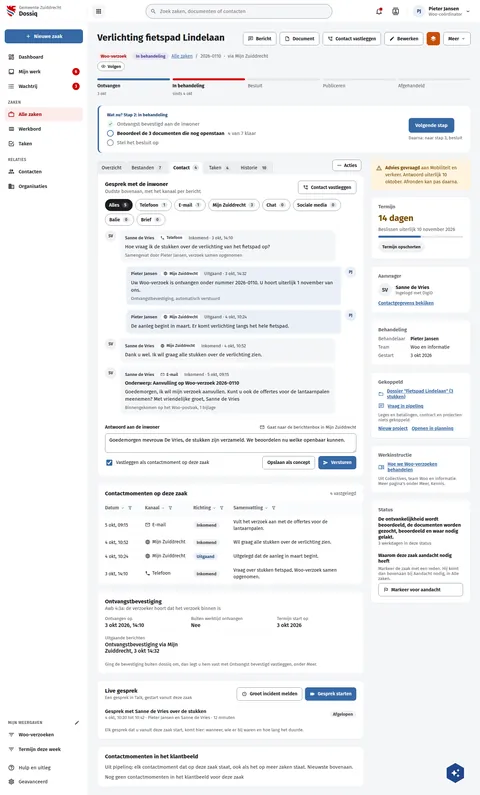
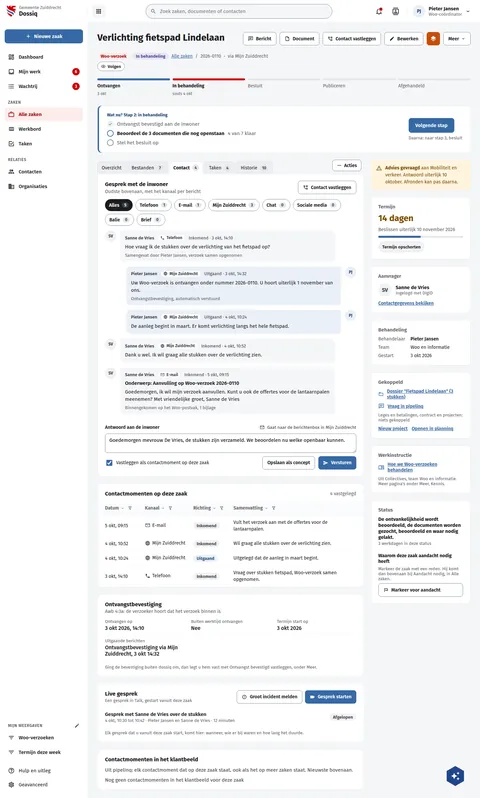
board(dossiq): DqZaakContact draws its contact-moment cells at 11px, as every dossiq table
"Contactmomenten op deze zaak" was the last dossiq table drawn with 10px cell
padding; every other Dq table draws 11, and the app draws 11 (r45: the table
249.2 on the board against 257.2 live, so Ontvangstbevestiging sat 8px lower
than its shift above explained). Board 2385 -> 2393.

Assisted-by: ClaudeCode:claude-opus-5-5

diff --git a/preview/screens/boards/DqZaakContact.html b/preview/screens/boards/DqZaakContact.html
@@ -329,31 +329,31 @@ a{color:var(--sc-primary, #3669a5)}a:hover{color:var(--sc-primary-deep, #234a78)
                   <tbody>
                     
                       <tr style="border-top: 1px solid var(--sc-work-soft, #eef0f3)">
-                        <td style="padding: 10px 22px; white-space: nowrap">5 okt, 09:15</td>
-                        <td style="padding: 10px 12px"><span style="display: inline-flex; align-items: center; gap: 6px; white-space: nowrap"><svg width="16" height="16" viewbox="0 0 24 24" fill="#3d4047" aria-hidden="true" style="fill:var(--sc-work-text, #3d4047)"><path d="M22 6C22 4.9 21.1 4 20 4H4C2.9 4 2 4.9 2 6V18C2 19.1 2.9 20 4 20H20C21.1 20 22 19.1 22 18V6M20 6L12 11L4 6H20M20 18H4V8L12 13L20 8V18Z"></path></svg>E-mail</span></td>
-                        <td style="padding: 10px 12px"><span style="display: inline-block; padding: 3px 10px; border-radius: 12px; font-size: 13px; font-weight: 600; white-space: nowrap; background: var(--sc-work-chip, #f0f1f3); color: var(--sc-work-text, #3d4047)">Inkomend</span></td>
-                        <td style="padding: 10px 22px 10px 12px; line-height: 1.45">Vult het verzoek aan met de offertes voor de lantaarnpalen.</td>
+                        <td style="padding: 11px 22px; white-space: nowrap">5 okt, 09:15</td>
+                        <td style="padding: 11px 12px"><span style="display: inline-flex; align-items: center; gap: 6px; white-space: nowrap"><svg width="16" height="16" viewbox="0 0 24 24" fill="#3d4047" aria-hidden="true" style="fill:var(--sc-work-text, #3d4047)"><path d="M22 6C22 4.9 21.1 4 20 4H4C2.9 4 2 4.9 2 6V18C2 19.1 2.9 20 4 20H20C21.1 20 22 19.1 22 18V6M20 6L12 11L4 6H20M20 18H4V8L12 13L20 8V18Z"></path></svg>E-mail</span></td>
+                        <td style="padding: 11px 12px"><span style="display: inline-block; padding: 3px 10px; border-radius: 12px; font-size: 13px; font-weight: 600; white-space: nowrap; background: var(--sc-work-chip, #f0f1f3); color: var(--sc-work-text, #3d4047)">Inkomend</span></td>
+                        <td style="padding: 11px 22px 11px 12px; line-height: 1.45">Vult het verzoek aan met de offertes voor de lantaarnpalen.</td>
                       </tr>
                     
                       <tr style="border-top: 1px solid var(--sc-work-soft, #eef0f3)">
-                        <td style="padding: 10px 22px; white-space: nowrap">4 okt, 10:52</td>
-                        <td style="padding: 10px 12px"><span style="display: inline-flex; align-items: center; gap: 6px; white-space: nowrap"><svg width="16" height="16" viewbox="0 0 24 24" fill="#3d4047" aria-hidden="true" style="fill:var(--sc-work-text, #3d4047)"><path d="M16.36,14C16.44,13.34 16.5,12.68 16.5,12C16.5,11.32 16.44,10.66 16.36,10H19.74C19.9,10.64 20,11.31 20,12C20,12.69 19.9,13.36 19.74,14M14.59,19.56C15.19,18.45 15.65,17.25 15.97,16H18.92C17.96,17.65 16.43,18.93 14.59,19.56M14.34,14H9.66C9.56,13.34 9.5,12.68 9.5,12C9.5,11.32 9.56,10.65 9.66,10H14.34C14.43,10.65 14.5,11.32 14.5,12C14.5,12.68 14.43,13.34 14.34,14M12,19.96C11.17,18.76 10.5,17.43 10.09,16H13.91C13.5,17.43 12.83,18.76 12,19.96M8,8H5.08C6.03,6.34 7.57,5.06 9.4,4.44C8.8,5.55 8.35,6.75 8,8M5.08,16H8C8.35,17.25 8.8,18.45 9.4,19.56C7.57,18.93 6.03,17.65 5.08,16M4.26,14C4.1,13.36 4,12.69 4,12C4,11.31 4.1,10.64 4.26,10H7.64C7.56,10.66 7.5,11.32 7.5,12C7.5,12.68 7.56,13.34 7.64,14M12,4.03C12.83,5.23 13.5,6.57 13.91,8H10.09C10.5,6.57 11.17,5.23 12,4.03M18.92,8H15.97C15.65,6.75 15.19,5.55 14.59,4.44C16.43,5.07 17.96,6.34 18.92,8M12,2C6.47,2 2,6.5 2,12A10,10 0 0,0 12,22A10,10 0 0,0 22,12A10,10 0 0,0 12,2Z"></path></svg>Mijn Zuiddrecht</span></td>
-                        <td style="padding: 10px 12px"><span style="display: inline-block; padding: 3px 10px; border-radius: 12px; font-size: 13px; font-weight: 600; white-space: nowrap; background: var(--sc-work-chip, #f0f1f3); color: var(--sc-work-text, #3d4047)">Inkomend</span></td>
-                        <td style="padding: 10px 22px 10px 12px; line-height: 1.45">Wil graag alle stukken over de verlichting zien.</td>
+                        <td style="padding: 11px 22px; white-space: nowrap">4 okt, 10:52</td>
+                        <td style="padding: 11px 12px"><span style="display: inline-flex; align-items: center; gap: 6px; white-space: nowrap"><svg width="16" height="16" viewbox="0 0 24 24" fill="#3d4047" aria-hidden="true" style="fill:var(--sc-work-text, #3d4047)"><path d="M16.36,14C16.44,13.34 16.5,12.68 16.5,12C16.5,11.32 16.44,10.66 16.36,10H19.74C19.9,10.64 20,11.31 20,12C20,12.69 19.9,13.36 19.74,14M14.59,19.56C15.19,18.45 15.65,17.25 15.97,16H18.92C17.96,17.65 16.43,18.93 14.59,19.56M14.34,14H9.66C9.56,13.34 9.5,12.68 9.5,12C9.5,11.32 9.56,10.65 9.66,10H14.34C14.43,10.65 14.5,11.32 14.5,12C14.5,12.68 14.43,13.34 14.34,14M12,19.96C11.17,18.76 10.5,17.43 10.09,16H13.91C13.5,17.43 12.83,18.76 12,19.96M8,8H5.08C6.03,6.34 7.57,5.06 9.4,4.44C8.8,5.55 8.35,6.75 8,8M5.08,16H8C8.35,17.25 8.8,18.45 9.4,19.56C7.57,18.93 6.03,17.65 5.08,16M4.26,14C4.1,13.36 4,12.69 4,12C4,11.31 4.1,10.64 4.26,10H7.64C7.56,10.66 7.5,11.32 7.5,12C7.5,12.68 7.56,13.34 7.64,14M12,4.03C12.83,5.23 13.5,6.57 13.91,8H10.09C10.5,6.57 11.17,5.23 12,4.03M18.92,8H15.97C15.65,6.75 15.19,5.55 14.59,4.44C16.43,5.07 17.96,6.34 18.92,8M12,2C6.47,2 2,6.5 2,12A10,10 0 0,0 12,22A10,10 0 0,0 22,12A10,10 0 0,0 12,2Z"></path></svg>Mijn Zuiddrecht</span></td>
+                        <td style="padding: 11px 12px"><span style="display: inline-block; padding: 3px 10px; border-radius: 12px; font-size: 13px; font-weight: 600; white-space: nowrap; background: var(--sc-work-chip, #f0f1f3); color: var(--sc-work-text, #3d4047)">Inkomend</span></td>
+                        <td style="padding: 11px 22px 11px 12px; line-height: 1.45">Wil graag alle stukken over de verlichting zien.</td>
                       </tr>
                     
                       <tr style="border-top: 1px solid var(--sc-work-soft, #eef0f3)">
-                        <td style="padding: 10px 22px; white-space: nowrap">4 okt, 10:24</td>
-                        <td style="padding: 10px 12px"><span style="display: inline-flex; align-items: center; gap: 6px; white-space: nowrap"><svg width="16" height="16" viewbox="0 0 24 24" fill="#3d4047" aria-hidden="true" style="fill:var(--sc-work-text, #3d4047)"><path d="M16.36,14C16.44,13.34 16.5,12.68 16.5,12C16.5,11.32 16.44,10.66 16.36,10H19.74C19.9,10.64 20,11.31 20,12C20,12.69 19.9,13.36 19.74,14M14.59,19.56C15.19,18.45 15.65,17.25 15.97,16H18.92C17.96,17.65 16.43,18.93 14.59,19.56M14.34,14H9.66C9.56,13.34 9.5,12.68 9.5,12C9.5,11.32 9.56,10.65 9.66,10H14.34C14.43,10.65 14.5,11.32 14.5,12C14.5,12.68 14.43,13.34 14.34,14M12,19.96C11.17,18.76 10.5,17.43 10.09,16H13.91C13.5,17.43 12.83,18.76 12,19.96M8,8H5.08C6.03,6.34 7.57,5.06 9.4,4.44C8.8,5.55 8.35,6.75 8,8M5.08,16H8C8.35,17.25 8.8,18.45 9.4,19.56C7.57,18.93 6.03,17.65 5.08,16M4.26,14C4.1,13.36 4,12.69 4,12C4,11.31 4.1,10.64 4.26,10H7.64C7.56,10.66 7.5,11.32 7.5,12C7.5,12.68 7.56,13.34 7.64,14M12,4.03C12.83,5.23 13.5,6.57 13.91,8H10.09C10.5,6.57 11.17,5.23 12,4.03M18.92,8H15.97C15.65,6.75 15.19,5.55 14.59,4.44C16.43,5.07 17.96,6.34 18.92,8M12,2C6.47,2 2,6.5 2,12A10,10 0 0,0 12,22A10,10 0 0,0 22,12A10,10 0 0,0 12,2Z"></path></svg>Mijn Zuiddrecht</span></td>
-                        <td style="padding: 10px 12px"><span style="display: inline-block; padding: 3px 10px; border-radius: 12px; font-size: 13px; font-weight: 600; white-space: nowrap; background: var(--sc-primary-light, #eaf0f7); color: var(--sc-primary-deep, #234a78)">Uitgaand</span></td>
-                        <td style="padding: 10px 22px 10px 12px; line-height: 1.45">Uitgelegd dat de aanleg in maart begint.</td>
+                        <td style="padding: 11px 22px; white-space: nowrap">4 okt, 10:24</td>
+                        <td style="padding: 11px 12px"><span style="display: inline-flex; align-items: center; gap: 6px; white-space: nowrap"><svg width="16" height="16" viewbox="0 0 24 24" fill="#3d4047" aria-hidden="true" style="fill:var(--sc-work-text, #3d4047)"><path d="M16.36,14C16.44,13.34 16.5,12.68 16.5,12C16.5,11.32 16.44,10.66 16.36,10H19.74C19.9,10.64 20,11.31 20,12C20,12.69 19.9,13.36 19.74,14M14.59,19.56C15.19,18.45 15.65,17.25 15.97,16H18.92C17.96,17.65 16.43,18.93 14.59,19.56M14.34,14H9.66C9.56,13.34 9.5,12.68 9.5,12C9.5,11.32 9.56,10.65 9.66,10H14.34C14.43,10.65 14.5,11.32 14.5,12C14.5,12.68 14.43,13.34 14.34,14M12,19.96C11.17,18.76 10.5,17.43 10.09,16H13.91C13.5,17.43 12.83,18.76 12,19.96M8,8H5.08C6.03,6.34 7.57,5.06 9.4,4.44C8.8,5.55 8.35,6.75 8,8M5.08,16H8C8.35,17.25 8.8,18.45 9.4,19.56C7.57,18.93 6.03,17.65 5.08,16M4.26,14C4.1,13.36 4,12.69 4,12C4,11.31 4.1,10.64 4.26,10H7.64C7.56,10.66 7.5,11.32 7.5,12C7.5,12.68 7.56,13.34 7.64,14M12,4.03C12.83,5.23 13.5,6.57 13.91,8H10.09C10.5,6.57 11.17,5.23 12,4.03M18.92,8H15.97C15.65,6.75 15.19,5.55 14.59,4.44C16.43,5.07 17.96,6.34 18.92,8M12,2C6.47,2 2,6.5 2,12A10,10 0 0,0 12,22A10,10 0 0,0 22,12A10,10 0 0,0 12,2Z"></path></svg>Mijn Zuiddrecht</span></td>
+                        <td style="padding: 11px 12px"><span style="display: inline-block; padding: 3px 10px; border-radius: 12px; font-size: 13px; font-weight: 600; white-space: nowrap; background: var(--sc-primary-light, #eaf0f7); color: var(--sc-primary-deep, #234a78)">Uitgaand</span></td>
+                        <td style="padding: 11px 22px 11px 12px; line-height: 1.45">Uitgelegd dat de aanleg in maart begint.</td>
                       </tr>
                     
                       <tr style="border-top: 1px solid var(--sc-work-soft, #eef0f3)">
-                        <td style="padding: 10px 22px; white-space: nowrap">3 okt, 14:10</td>
-                        <td style="padding: 10px 12px"><span style="display: inline-flex; align-items: center; gap: 6px; white-space: nowrap"><svg width="16" height="16" viewbox="0 0 24 24" fill="#3d4047" aria-hidden="true" style="fill:var(--sc-work-text, #3d4047)"><path d="M6.62,10.79C8.06,13.62 10.38,15.94 13.21,17.38L15.41,15.18C15.69,14.9 16.08,14.82 16.43,14.93C17.55,15.3 18.75,15.5 20,15.5A1,1 0 0,1 21,16.5V20A1,1 0 0,1 20,21A17,17 0 0,1 3,4A1,1 0 0,1 4,3H7.5A1,1 0 0,1 8.5,4C8.5,5.25 8.7,6.45 9.07,7.57C9.18,7.92 9.1,8.31 8.82,8.59L6.62,10.79Z"></path></svg>Telefoon</span></td>
-                        <td style="padding: 10px 12px"><span style="display: inline-block; padding: 3px 10px; border-radius: 12px; font-size: 13px; font-weight: 600; white-space: nowrap; background: var(--sc-work-chip, #f0f1f3); color: var(--sc-work-text, #3d4047)">Inkomend</span></td>
-                        <td style="padding: 10px 22px 10px 12px; line-height: 1.45">Vraag over stukken fietspad, Woo-verzoek samen opgenomen.</td>
+                        <td style="padding: 11px 22px; white-space: nowrap">3 okt, 14:10</td>
+                        <td style="padding: 11px 12px"><span style="display: inline-flex; align-items: center; gap: 6px; white-space: nowrap"><svg width="16" height="16" viewbox="0 0 24 24" fill="#3d4047" aria-hidden="true" style="fill:var(--sc-work-text, #3d4047)"><path d="M6.62,10.79C8.06,13.62 10.38,15.94 13.21,17.38L15.41,15.18C15.69,14.9 16.08,14.82 16.43,14.93C17.55,15.3 18.75,15.5 20,15.5A1,1 0 0,1 21,16.5V20A1,1 0 0,1 20,21A17,17 0 0,1 3,4A1,1 0 0,1 4,3H7.5A1,1 0 0,1 8.5,4C8.5,5.25 8.7,6.45 9.07,7.57C9.18,7.92 9.1,8.31 8.82,8.59L6.62,10.79Z"></path></svg>Telefoon</span></td>
+                        <td style="padding: 11px 12px"><span style="display: inline-block; padding: 3px 10px; border-radius: 12px; font-size: 13px; font-weight: 600; white-space: nowrap; background: var(--sc-work-chip, #f0f1f3); color: var(--sc-work-text, #3d4047)">Inkomend</span></td>
+                        <td style="padding: 11px 22px 11px 12px; line-height: 1.45">Vraag over stukken fietspad, Woo-verzoek samen opgenomen.</td>
                       </tr>
                     
                   </tbody>

diff --git a/screens-src/zuiddrecht/DqZaakContact.dc.html b/screens-src/zuiddrecht/DqZaakContact.dc.html
@@ -125,10 +125,10 @@ a{color:#3669a5}a:hover{color:#234a78}
                   <tbody>
                     <sc-for list="{{ moments }}" as="c" hint-placeholder-count="3">
                       <tr style="border-top: 1px solid #eef0f3">
-                        <td style="padding: 10px 22px; white-space: nowrap">{{ c.when }}</td>
-                        <td style="padding: 10px 12px"><span style="display: inline-flex; align-items: center; gap: 6px; white-space: nowrap"><svg width="16" height="16" viewBox="0 0 24 24" fill="#3d4047" aria-hidden="true"><path d="{{ c.icon }}"></path></svg>{{ c.channel }}</span></td>
-                        <td style="padding: 10px 12px"><span style="{{ c.dirStyle }}">{{ c.dir }}</span></td>
-                        <td style="padding: 10px 22px 10px 12px; line-height: 1.45">{{ c.summary }}</td>
+                        <td style="padding: 11px 22px; white-space: nowrap">{{ c.when }}</td>
+                        <td style="padding: 11px 12px"><span style="display: inline-flex; align-items: center; gap: 6px; white-space: nowrap"><svg width="16" height="16" viewBox="0 0 24 24" fill="#3d4047" aria-hidden="true"><path d="{{ c.icon }}"></path></svg>{{ c.channel }}</span></td>
+                        <td style="padding: 11px 12px"><span style="{{ c.dirStyle }}">{{ c.dir }}</span></td>
+                        <td style="padding: 11px 22px 11px 12px; line-height: 1.45">{{ c.summary }}</td>
                       </tr>
                     </sc-for>
                   </tbody>
